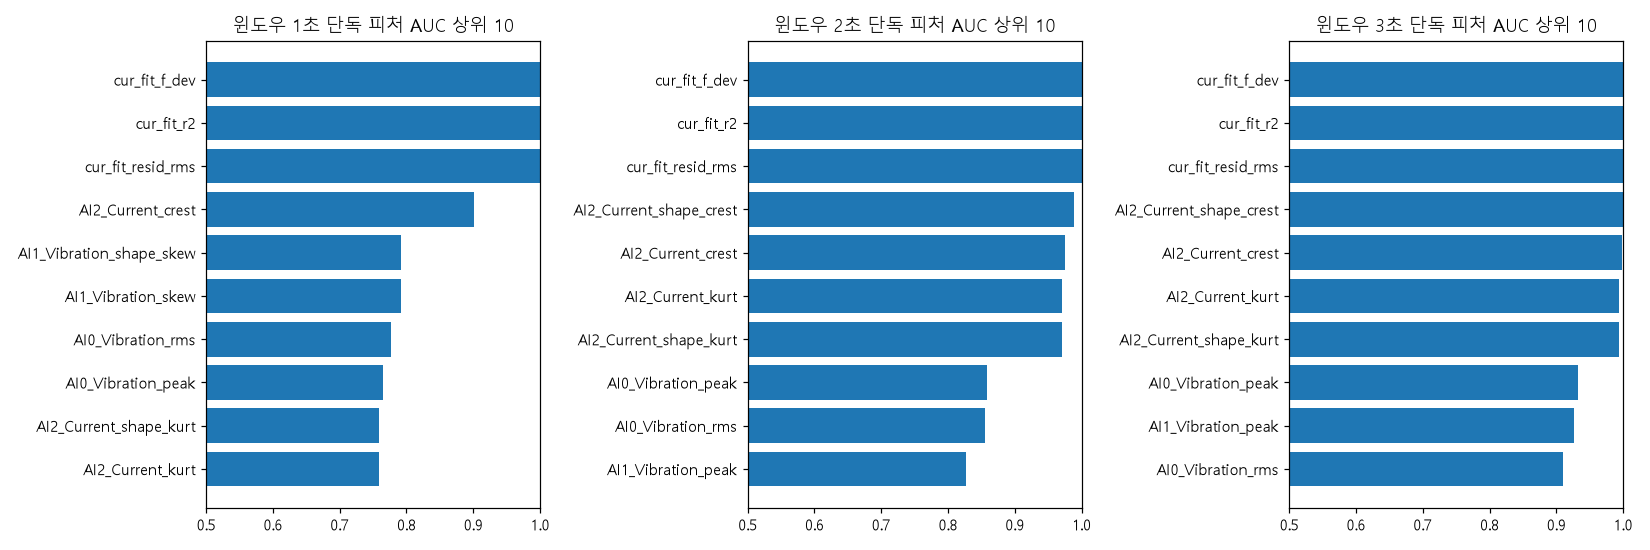
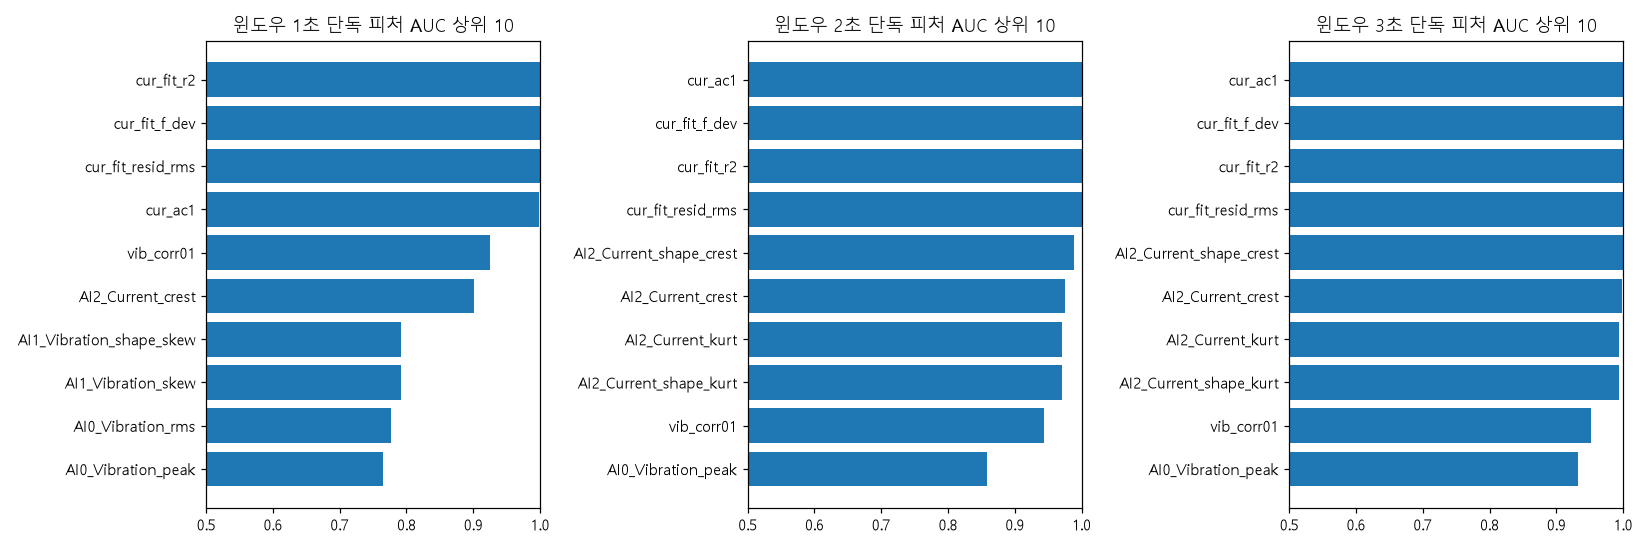
feat(features): 채널 관계·피크투피크 피처 추가 및 탐지 지연 정의 정리
- features: 진폭군에 p2p 추가(3채널 × 6 = 18열), 채널 관계군 rel 신설 — vib_corr01(세그먼트 내 AI0·AI1 피어슨 상관), cur_ac1(전류 lag-1 자기상관), 세그먼트 단위 계산 후 브로드캐스트. 입력 피처 27 → 32열, parquet 39 → 44열
- 윈도우 중앙값(정상/이상): vib_corr01 +0.283 / −0.357, cur_ac1 0.906 / 0.537, AI0 p2p 0.223 / 1.174 — reference EDA 지표(+0.28/−0.35, 0.93/0.44)와 일치
- evaluate.detection_delay_s: 고정 보정값(delay_offset_s) 대신 win_s 인자로 첫 초과 윈도우의 완성 시각(t_start + win_s − 0.1 s)을 지연으로 정의. 베이스라인 smoke 지표 불변(kfold 평균 AUC 0.7864, fpr_segment 0.0395, 지연 0.95 s, 체감 8.908 s)
- 새 프로세스에서 parquet + split + evaluate만으로 metrics_smoke.csv 9행 재현 확인(atol 1e-9)
- docs/modeling_kickoff.md §2·§5·§7, data/README.md 컬럼 계약 갱신

diff --git a/src/features.py b/src/features.py
@@ -5,11 +5,15 @@
 윈도우가 0개라 "판정 불가"다(`segment_coverage`로 비율을 함께 보고할 것).
 
 피처군 (reports/03_diagnosis_recheck_CHS.md §4)
-- amp  : 진폭 — rms · peak · kurt · crest · skew (3채널 × 5 = 15열)
 - shape: 형상 — 윈도우 내 z-score 후 kurt · crest · skew (3채널 × 3 = 9열). 진동 게인 동일성 미확인(A-2) 대비
+- amp  : 진폭 — rms · peak · p2p(피크투피크) · kurt · crest · skew (3채널 × 6 = 18열)
 - sine : 전류 사인 잔차 — `cur_fit_resid_rms`, `cur_fit_r2`, `cur_fit_f_dev`(|f-0.6|). **세그먼트 단위로 1회 피팅**한
          값을 그 세그먼트의 모든 윈도우에 브로드캐스트한다(윈도우별 재피팅은 느리고 10~30샘플 창에서는
          주파수가 불안정). 따라서 sine 피처는 윈도우 내용이 아니라 세그먼트 전체의 성질이다.
+- rel  : 채널 관계 — `vib_corr01`(세그먼트 내 AI0·AI1 피어슨 상관, 02 §6), `cur_ac1`(전류 lag-1 자기상관).
+         reference EDA가 강조한 지표(정상 +0.28 → 이상 −0.35, 자기상관 0.93 → 0.44)와 비교하기 위한 것으로,
+         sine과 같이 세그먼트 단위로 계산해 브로드캐스트한다. 0.6 Hz 정현파의 lag-1 자기상관은 cos(2π·0.06)≈0.93이라
+         `cur_ac1`은 사인 잔차와 정보가 겹친다.
 
 `t_abs`(윈도우 시작의 절대 시각)는 시간 블록 분할·정렬용이다. 날짜가 곧 라벨이므로 **모델 입력 금지**.
 """
@@ -28,10 +32,11 @@ STEP_S = 0.5                     # 윈도우 이동 간격
 FS = 10.0
 CUR_ALIAS_HZ = 0.6               # 60 Hz가 fs=10 Hz로 접힌 관측 주파수
 
-GROUPS = ("amp", "shape", "sine")
-AMP_KEYS = ("rms", "peak", "kurt", "crest", "skew")
+GROUPS = ("amp", "shape", "sine", "rel")
+AMP_KEYS = ("rms", "peak", "p2p", "kurt", "crest", "skew")
 SHAPE_KEYS = ("kurt", "crest", "skew")
 SINE_KEYS = ("cur_fit_resid_rms", "cur_fit_r2", "cur_fit_f_dev")
+REL_KEYS = ("vib_corr01", "cur_ac1")
 
 META_COLS = {"seg_uid", "src", "label", "win_s", "t_start", "t_abs", "n_samples", "fold", "block",
              "state", "vib_grade", "cur_grade"}
@@ -53,10 +58,11 @@ def sliding_windows(seg: pd.DataFrame, win_s: float, step_s: float = STEP_S,
 
 
 def amplitude_features(x: np.ndarray) -> dict:
-    """진폭 피처: rms, peak(|x| 최댓값), kurt(Fisher 초과첨도), crest(peak/rms), skew. x는 DC 제거된 신호."""
+    """진폭 피처: rms, peak(|x| 최댓값), p2p(max−min), kurt(Fisher 초과첨도), crest(peak/rms), skew. x는 DC 제거된 신호."""
     x = np.asarray(x, dtype=float)
     rms = float(np.sqrt(np.mean(x ** 2)))
     peak = float(np.max(np.abs(x)))
+    p2p = float(x.max() - x.min())
     m = x - x.mean()
     m2 = float(np.mean(m ** 2))
     if m2 > 0:
@@ -64,7 +70,7 @@ def amplitude_features(x: np.ndarray) -> dict:
         skew = float(np.mean(m ** 3) / m2 ** 1.5)
     else:
         kurt = skew = np.nan
-    return {"rms": rms, "peak": peak, "kurt": kurt, "crest": peak / rms if rms > 0 else np.nan, "skew": skew}
+    return {"rms": rms, "peak": peak, "p2p": p2p, "kurt": kurt, "crest": peak / rms if rms > 0 else np.nan, "skew": skew}
 
 
 def shape_features(x: np.ndarray) -> dict:
@@ -89,6 +95,16 @@ def current_sine_features(x: np.ndarray, fs: float = FS) -> dict:
             "cur_fit_f_dev": abs(f - CUR_ALIAS_HZ) if f == f else np.nan}
 
 
+def relation_features(seg: pd.DataFrame) -> dict:
+    """채널 관계 피처(세그먼트 단위): vib_corr01 = AI0·AI1 피어슨 상관, cur_ac1 = 전류 lag-1 자기상관. 길이 < 4면 nan."""
+    if len(seg) < 4:
+        return {k: np.nan for k in REL_KEYS}
+    a, b = seg[SENSORS[0]].to_numpy(dtype=float), seg[SENSORS[1]].to_numpy(dtype=float)
+    corr = float(np.corrcoef(a, b)[0, 1]) if a.std() > 0 and b.std() > 0 else np.nan
+    ac = sc.autocorr(seg[CUR_CHANNEL].to_numpy(dtype=float), max_lag=1)
+    return {"vib_corr01": corr, "cur_ac1": float(ac[1]) if len(ac) > 1 else np.nan}
+
+
 def _label(g: pd.DataFrame) -> int:
     if "Equipment_state" in g.columns:
         return int(round(g["Equipment_state"].mean()))
@@ -100,7 +116,7 @@ def window_features(df_pre: pd.DataFrame, windows_s=WINDOWS_S, step_s: float = S
     """전처리된 샘플 표 → 윈도우 1행짜리 wide 피처 표.
 
     출력 컬럼: seg_uid, src, label, win_s, t_start(세그먼트 내 오프셋 s), t_abs(윈도우 시작 ts),
-    n_samples, 이어서 `<채널>_<피처>`(amp 15), `<채널>_shape_<피처>`(shape 9), cur_fit_*(sine 3).
+    n_samples, 이어서 `<채널>_<피처>`(amp 18), `<채널>_shape_<피처>`(shape 9), cur_fit_*(sine 3), vib_corr01·cur_ac1(rel 2).
     `t_abs`는 시간 블록 분할용이며 모델 입력이 아니다.
     """
     d = add_seg_uid(df_pre)
@@ -108,6 +124,8 @@ def window_features(df_pre: pd.DataFrame, windows_s=WINDOWS_S, step_s: float = S
     for uid, seg in d.groupby("seg_uid", sort=False):
         src, label = seg["src"].iloc[0], _label(seg)
         sine = current_sine_features(seg[CUR_CHANNEL].to_numpy(), fs) if "sine" in groups else {}
+        if "rel" in groups:
+            sine = {**sine, **relation_features(seg)}
         arrs = {ch: seg[ch].to_numpy(dtype=float) for ch in SENSORS}
         ts = seg["ts"].to_numpy() if "ts" in seg.columns else None
         for win_s in windows_s:

diff --git a/src/evaluate.py b/src/evaluate.py
@@ -36,23 +36,27 @@ def fpr_segment(score_normal, seg_uid_normal, thr: float) -> float:
     return float((t["s"] > thr).groupby(t["u"]).any().mean())
 
 
-def detection_delay_s(score_outlier, seg_uid_outlier, t_start, thr: float, burst_gap_s: float = BURST_GAP_S,
-                      include_gap: bool = False, delay_offset_s: float = 0.0) -> pd.DataFrame:
+def detection_delay_s(score_outlier, seg_uid_outlier, t_start, thr: float, win_s: float = 0.0,
+                      fs: float = 10.0, burst_gap_s: float = BURST_GAP_S,
+                      include_gap: bool = False) -> pd.DataFrame:
     """이상 세그먼트별 첫 초과 윈도우까지의 지연.
 
-    반환 컬럼: seg_uid, detected, delay_in_window_s(= 첫 초과 t_start + delay_offset_s), delay_s.
-    delay_offset_s는 "윈도우가 완성된 시점" 보정(02의 이동 RMS 지연은 마지막 샘플 기준이라 1초 윈도우면 0.9).
-    include_gap=True면 delay_s = 윈도우 내 지연 + burst_gap_s(체감 지연), 아니면 delay_s = 윈도우 내 지연.
+    반환 컬럼: seg_uid, detected, delay_in_window_s, delay_s.
+    - delay_in_window_s = 첫 초과 윈도우의 **마지막 샘플 시각** = t_start + win_s − 1/fs. 윈도우가 채워져야
+      판정이 나오므로 시작 시각이 아니라 완성 시각을 지연으로 센다(02 §8의 이동 RMS 지연과 같은 정의:
+      1초 윈도우가 세그먼트 첫 샘플부터 초과하면 0.9초). win_s=0이면 t_start 그대로.
+    - include_gap=True면 delay_s = delay_in_window_s + burst_gap_s(체감 지연), 아니면 delay_in_window_s.
     미탐지 세그먼트는 detected=False, 지연 nan. 중앙값은 탐지된 세그먼트만으로 구한다.
     """
     t = pd.DataFrame({"s": np.asarray(score_outlier, dtype=float), "u": np.asarray(seg_uid_outlier),
                       "t": np.asarray(t_start, dtype=float)})
+    offset = max(win_s - 1.0 / fs, 0.0) if win_s > 0 else 0.0
     rows = []
     for uid, g in t.groupby("u", sort=False):
         g = g.sort_values("t")
         hit = g[g["s"] > thr]
         if len(hit):
-            d_in = float(hit["t"].iloc[0]) + delay_offset_s
+            d_in = float(hit["t"].iloc[0]) + offset
             rows.append({"seg_uid": uid, "detected": True, "delay_in_window_s": d_in,
                          "delay_s": d_in + (burst_gap_s if include_gap else 0.0)})
         else:

diff --git a/docs/modeling_kickoff.md b/docs/modeling_kickoff.md
@@ -14,9 +14,10 @@
 
 | 컬럼 | 의미 | 입력 가능 |
 |---|---|---|
-| `AI0_Vibration_*`, `AI1_Vibration_*`, `AI2_Current_*` `{rms, peak, kurt, crest, skew}` | 진폭 피처군(15열) | 가능 (기본) |
+| `AI0_Vibration_*`, `AI1_Vibration_*`, `AI2_Current_*` `{rms, peak, p2p, kurt, crest, skew}` | 진폭 피처군(18열) | 가능 (기본) |
 | `<채널>_shape_{kurt, crest, skew}` | 형상 피처군: 윈도우 내 z-score 후 값(9열). 진동 게인 동일성 미확인(03 A-2) 대비 | 가능 (ablation +형상) |
 | `cur_fit_resid_rms`, `cur_fit_r2`, `cur_fit_f_dev` | 전류 사인 피팅 잔차 RMS · R² · \|f−0.6\|(3열). **세그먼트 전체 1회 피팅을 윈도우에 브로드캐스트한 세그먼트 수준 값** | 가능 (ablation +사인, 날짜 교란 가능성 주의) |
+| `vib_corr01`, `cur_ac1` | 채널 관계(2열): 세그먼트 내 AI0·AI1 피어슨 상관, 전류 lag-1 자기상관. **세그먼트 수준 값 브로드캐스트**. reference EDA 지표(정상 +0.28 → 이상 −0.35, 0.93 → 0.44)와의 비교용이며 `cur_ac1`은 사인 잔차와 정보가 겹친다 | 가능 (ablation +관계) |
 | `seg_uid` | 세그먼트 키(그룹) | 금지 (분할·집계 키로만) |
 | `src` | 정상/이상 파일 | 금지 (날짜 = 라벨) |
 | `label` | 정답(0 정상, 1 이상) | 금지 (정답) |
@@ -25,7 +26,7 @@
 | `fold`, `block` | 분할 번호(§4). `block`은 정상만, 이상은 NA | 금지 |
 | `state`, `vib_grade`, `cur_grade` | 운전 상태(정상만) · 채널별 soft label(이상만) | 금지 (사후 해석·FN/FP 분석용) |
 
-입력 열 목록은 `features.feature_columns(df)`로 얻는다(27열). 판정 불가 세그먼트(길이 < 윈도우)는 윈도우가 없어 평가에서 빠진다: 이상 세그먼트 기준 1초 4/21(19.05%), 2초 8/21(38.10%), 3초 11/21(52.38%), 정상은 각각 11.52% / 24.54% / 39.90%. 성능 보고 시 이 비율을 함께 적는다.
+입력 열 목록은 `features.feature_columns(df)`로 얻는다(32열). 판정 불가 세그먼트(길이 < 윈도우)는 윈도우가 없어 평가에서 빠진다: 이상 세그먼트 기준 1초 4/21(19.05%), 2초 8/21(38.10%), 3초 11/21(52.38%), 정상은 각각 11.52% / 24.54% / 39.90%. 성능 보고 시 이 비율을 함께 적는다.
 
 ## 3. 표준 전처리와 금지 목록
 
@@ -44,7 +45,7 @@
 - `evaluate.to_metrics_row(model, split, fold, auc, fpr_sample, fpr_segment, delay_median_s)`가 `results/README.md` 공통 컬럼(`model, split, fold, auc, fpr_sample, fpr_segment, delay_median_s`)을 만든다. 전체 평균 행은 `fold="mean"`.
 - 임계값은 **train fold 정상 점수의 q99**(`evaluate.threshold_from_normal`)만 쓴다. 이상 데이터로 임계를 고르지 않는다.
 - `fpr_sample`은 정상 윈도우 초과 비율, `fpr_segment`는 초과 윈도우가 1개라도 있는 정상 세그먼트 비율. 둘 다 보고한다.
-- 탐지 지연 `evaluate.detection_delay_s`: 세그먼트별 첫 초과 윈도우. 체감 지연 = 윈도우 내 지연 + burst 간격 중앙값 7.958초(`include_gap=True`). 실제 이상 발생 시점은 알 수 없으므로 7.958초는 구조적 하한이다. `delay_median_s`는 탐지된 세그먼트만의 중앙값이며, 미탐지 수(`n_detected / n_out_seg`)를 함께 적는다.
+- 탐지 지연 `evaluate.detection_delay_s(..., win_s=윈도우 길이)`: 세그먼트별 첫 초과 윈도우의 **완성 시각**(t_start + win_s − 0.1 s, 02 §8 정의와 동일). 체감 지연 = 윈도우 내 지연 + burst 간격 중앙값 7.958초(`include_gap=True`). 실제 이상 발생 시점은 알 수 없으므로 7.958초는 구조적 하한이다. `delay_median_s`는 탐지된 세그먼트만의 중앙값이며, 미탐지 수(`n_detected / n_out_seg`)를 함께 적는다.
 - 현장 활용(4번)용 연속 규칙: `evaluate.kofn_alarm(exceed, k, n)`.
 - 참고 기준(규칙 베이스라인 smoke, 1초 AI0 rms, `results/11_window_features_CHS/metrics_smoke.csv`): group_kfold_seg 평균 AUC 0.7864 · fpr_sample 0.0109 · fpr_segment 0.0395 · delay 0.95초, time_block 평균 AUC 0.7786 · fpr_sample 0.0116 · fpr_segment 0.0384 · delay 0.90초. 모델은 이 값을 넘어야 의미가 있다.
 
@@ -55,7 +56,7 @@
 
 ## 7. 피처군 ablation 규칙
 
-- 기본 = 진폭 15열. 추가 = +형상, +사인 잔차.
+- 기본 = 진폭 18열. 추가 = +형상, +사인 잔차, +관계(`vib_corr01`·`cur_ac1`). reference식 비교로 "+전류 DC(세그먼트 평균, 형식 누수 의심 채널)"를 별도 행으로 넣어도 되나 표준 입력에는 포함하지 않는다.
 - **최소 보고**: 기본, 기본+사인 두 행. 사인 잔차는 윈도우 단독 AUC가 1.0000(11 셀 5)이지만 세그먼트 수준 값이라 날짜 교란 가능성이 있으므로 기본 성능과 분리해 해석한다.
 - 지도 상한 참고: 세그먼트 로지스틱 OOF AUC 진폭 0.997, 진폭+사인 0.9999(03 `leak_ablation.csv`).
 

diff --git a/data/README.md b/data/README.md
@@ -21,4 +21,4 @@ data/
 | 파일 | 생성 (노트북 / 함수) | 내용 |
 |---|---|---|
 | `segments.csv` | `02_diagnosis_deep` / `segments.build_segments_table()` | 세그먼트 620행(정상 599 + 이상 21) × 26열, `seg_uid`·`vib_grade`·`cur_grade`·`state` |
-| `11_window_features.parquet` | `11_window_features_CHS` / `features.window_features()` + `split` 열 부여 | 윈도우 단위 피처 7,115행(1·2·3초 = 3,360 / 2,317 / 1,438) × 39열: 메타(`seg_uid`·`src`·`label`·`win_s`·`t_start`·`t_abs`·`n_samples`), 피처 27(진폭 15·형상 9·사인 잔차 3), `fold`·`block`, `state`·`vib_grade`·`cur_grade`. 입력 가능 열은 `features.feature_columns()`, 컬럼 계약은 `docs/modeling_kickoff.md` §2 |
+| `11_window_features.parquet` | `11_window_features_CHS` / `features.window_features()` + `split` 열 부여 | 윈도우 단위 피처 7,115행(1·2·3초 = 3,360 / 2,317 / 1,438) × 44열: 메타(`seg_uid`·`src`·`label`·`win_s`·`t_start`·`t_abs`·`n_samples`), 피처 32(진폭 18·형상 9·사인 잔차 3·채널 관계 2), `fold`·`block`, `state`·`vib_grade`·`cur_grade`. 입력 가능 열은 `features.feature_columns()`, 컬럼 계약은 `docs/modeling_kickoff.md` §2 |
